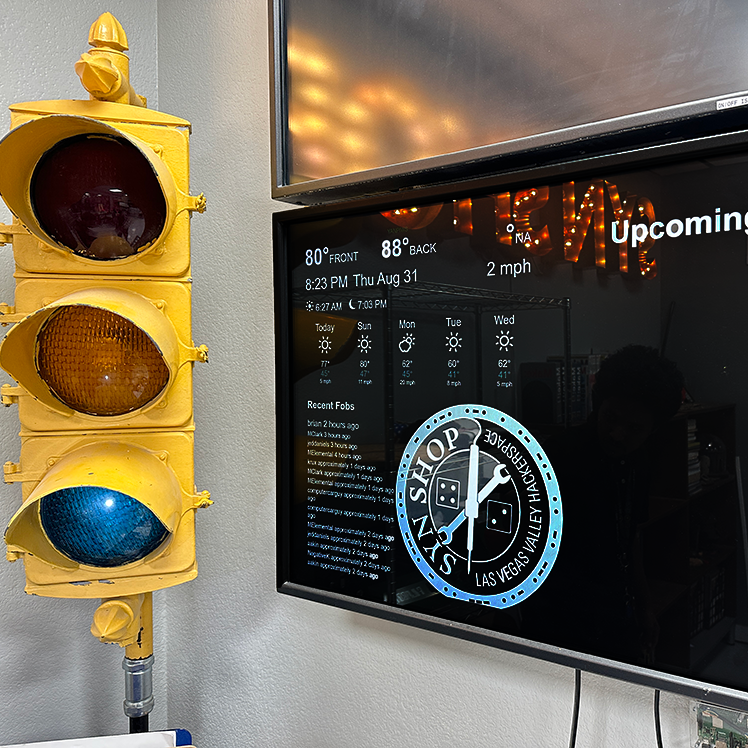
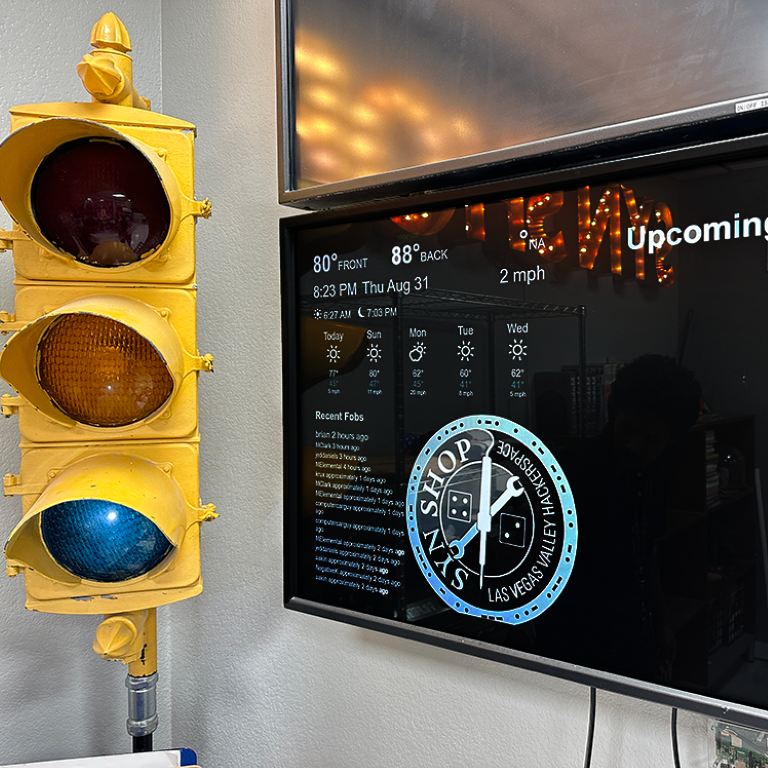
optimizations
- Optimized all images
- commented out taxonomy and date from equipment details. (commented instead of deleted, in case we ever want to bring it back)

diff --git a/_layouts/equipment.html b/_layouts/equipment.html
@@ -40,8 +40,8 @@ layout: default
         {% if site.data.ui-text[site.locale].meta_label %}
           <h4 class="page__meta-title">{{ site.data.ui-text[site.locale].meta_label }}</h4>
         {% endif %}
-        {% include page__taxonomy.html %}
-        {% include page__date.html %}
+        <!-- {% include page__taxonomy.html %}
+        #{% include page__date.html %} -->
       </footer>
 
       {% if share %}{% include social-share.html %}{% endif %}
